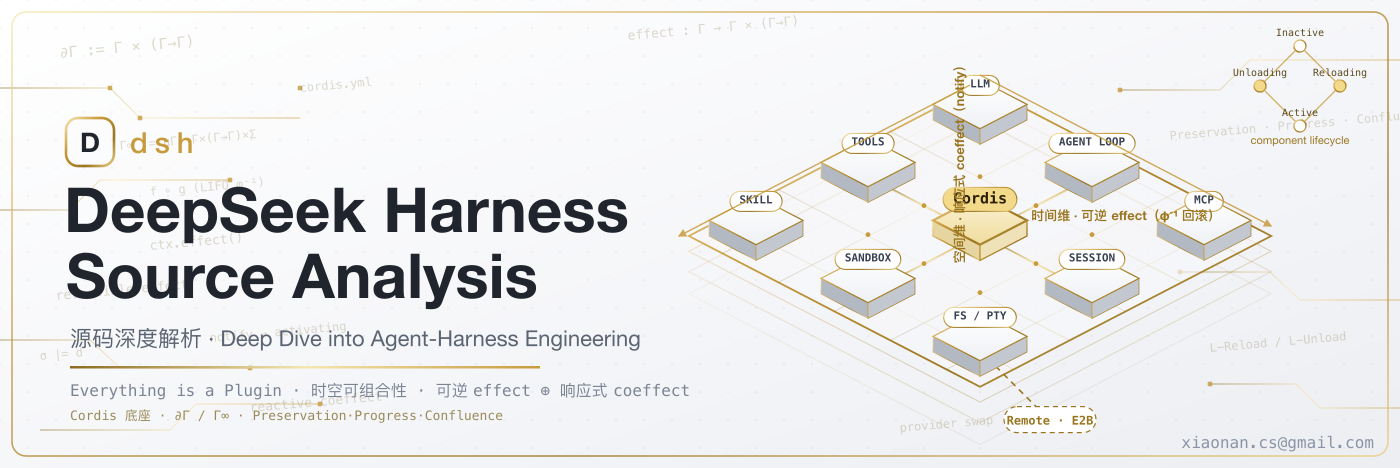
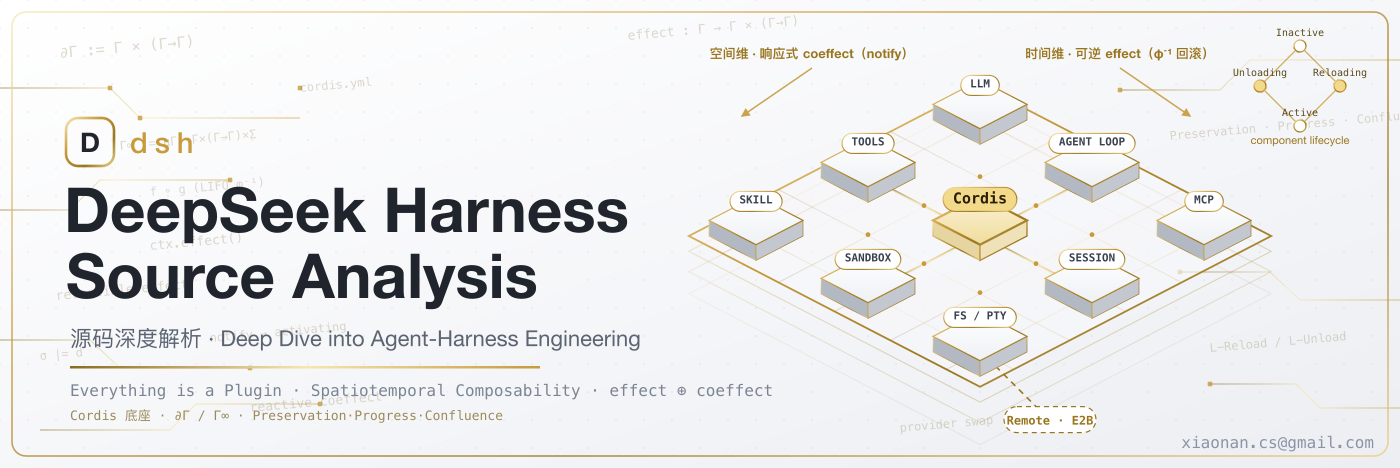
docs: 论文标题统一为英文原名 + 封面轴标签移出板外
- 全库将「时空可组合性」描述改为原文标题 Spatiotemporal Composability
  （含 md H1 标题、README/总纲/全网调研导航、章节正文）
- git mv 两文件为英文名：
  03-Spatiotemporal-Composability.md、
  22-A-Programming-Paradigm-for-Spatiotemporal-Composability.md
  并修正全部入站链接
- 封面 v5：时间维/空间维轴标签移到板外上方留白，短箭头指向对应棱边，
  文字与等距模块图不再互相覆盖；tagline 同步英文化

diff --git a/assets/gen_cover.py b/assets/gen_cover.py
@@ -104,12 +104,13 @@ for cx,cy,lbl,core in mods:
     out.append(f'<text x="{px:.1f}" y="{py+1:.1f}" text-anchor="middle" font-size="{fs}" font-weight="700" fill="{tc}">{lbl}</text>')
 out.append('</g>')
 
-# ---- 时空两维轴（板上方两条金箭头 + 标签）----
-tl=iso(-0.6,-0.6,0); tr=iso(4.6,-0.6,0); ll=iso(-0.6,4.6,0)
-out.append(f'<line x1="{tl[0]:.0f}" y1="{tl[1]-10:.0f}" x2="{tr[0]:.0f}" y2="{tr[1]-10:.0f}" stroke="{GOLD}" stroke-width="1.4" marker-end="url(#ah)" opacity="0.85"/>')
-out.append(f'<text x="{(tl[0]+tr[0])/2:.0f}" y="{tr[1]-16:.0f}" text-anchor="middle" font-size="13" font-weight="700" fill="{DKGOLD}">时间维 · 可逆 effect（φ⁻¹ 回滚）</text>')
-out.append(f'<line x1="{tl[0]-10:.0f}" y1="{tl[1]:.0f}" x2="{ll[0]-10:.0f}" y2="{ll[1]:.0f}" stroke="{GOLD}" stroke-width="1.4" marker-end="url(#ah)" opacity="0.85"/>')
-out.append(f'<text x="{tl[0]-16:.0f}" y="{(tl[1]+ll[1])/2:.0f}" text-anchor="middle" font-size="13" font-weight="700" fill="{DKGOLD}" transform="rotate(-90 {tl[0]-16:.0f} {(tl[1]+ll[1])/2:.0f})">空间维 · 响应式 coeffect（notify）</text>')
+# ---- 时空两维轴（移到板外上方留白，短箭头指向对应棱边，文字与模块完全分离）----
+# 空间维：左上留白，箭头指向板的左上棱
+out.append(f'<text x="812" y="58" text-anchor="middle" font-size="13" font-weight="700" fill="{DKGOLD}">空间维 · 响应式 coeffect（notify）</text>')
+out.append(f'<line x1="812" y1="68" x2="742" y2="116" stroke="{GOLD}" stroke-width="1.5" marker-end="url(#ah)" opacity="0.9"/>')
+# 时间维：右上留白，箭头指向板的右上棱
+out.append(f'<text x="1120" y="58" text-anchor="middle" font-size="13" font-weight="700" fill="{DKGOLD}">时间维 · 可逆 effect（φ⁻¹ 回滚）</text>')
+out.append(f'<line x1="1120" y1="68" x2="1190" y2="116" stroke="{GOLD}" stroke-width="1.5" marker-end="url(#ah)" opacity="0.9"/>')
 
 # ---- 生命周期环（右上角小母题，论文 Fig1/2）----
 lx,ly,r=1300,86,40
@@ -138,7 +139,7 @@ out.append(f'''
     <text x="66" y="298" font-size="62" font-weight="800" fill="{INK}">Source Analysis</text>
     <text x="70" y="346" font-size="22" fill="#5b6472">源码深度解析 · Deep Dive into Agent-Harness Engineering</text>
     <rect x="70" y="366" width="470" height="2.5" fill="url(#wireH)"/>
-    <text x="70" y="396" font-size="16" fill="#7b8493" font-family="ui-monospace,Menlo,monospace">Everything is a Plugin · 时空可组合性 · 可逆 effect ⊕ 响应式 coeffect</text>
+    <text x="70" y="396" font-size="16" fill="#7b8493" font-family="ui-monospace,Menlo,monospace">Everything is a Plugin · Spatiotemporal Composability · effect ⊕ coeffect</text>
     <text x="70" y="420" font-size="13" fill="#9a8a5a" font-family="ui-monospace,Menlo,monospace">Cordis 底座 · ∂Γ / Γ∞ · Preservation·Progress·Confluence</text>
   </g>''')
 out.append(f'<text x="{W-26}" y="{H-20}" text-anchor="end" font-size="16" fill="#8a94a6" font-family="ui-monospace,Menlo,monospace">xiaonan.cs@gmail.com</text>')

diff --git a/Part II Source Analysis/18-互操作与自我修改.md b/Part II Source Analysis/18-互操作与自我修改.md
@@ -1,6 +1,6 @@
 # 第 18 章 · 互操作与自我修改
 
-> 本章讲三件事:dsh 如何**当别人的客户端**(MCP client 挂载外部工具)、如何**兼容别人的扩展协议**(Claude Code / Codex 的 hook 桥),以及最激进的一步——如何让 agent **检视并改写自己正在运行的插件运行时**(extensions / `demo:cordis`)。读完你能回答:一个"一切皆插件"的 harness,把插件系统的钥匙交到模型手里时,它用哪些不变量守住正确性,以及这一步为什么正是第 3 章"时空可组合性"最直接的体现。
+> 本章讲三件事:dsh 如何**当别人的客户端**(MCP client 挂载外部工具)、如何**兼容别人的扩展协议**(Claude Code / Codex 的 hook 桥),以及最激进的一步——如何让 agent **检视并改写自己正在运行的插件运行时**(extensions / `demo:cordis`)。读完你能回答:一个"一切皆插件"的 harness,把插件系统的钥匙交到模型手里时,它用哪些不变量守住正确性,以及这一步为什么正是第 3 章"Spatiotemporal Composability"最直接的体现。
 
 前面若干章把 dsh 拆成一棵 Cordis 插件树:agent loop、工具注册表、会话日志、模型适配器全是可替换插件(Ch05–Ch11)。所谓"插件树",就是把整个 harness 想象成一棵由许多可插拔零件搭起来的树,每个零件既可以单独换掉,也能挂上新的分支。本章处理这棵树的**边界与自反**(自反 = 系统能把自己当成操作对象)——树如何伸到进程之外去消费第三方生态,如何把外部世界的扩展协议翻译进自己的类型化扩展点,以及树如何长出一根指向自己的手指。三条接缝在源码里分属三个包组:`packages/mcp`、`packages/hooks`、`packages/extensions`(`packages/self-modification` 是 AGENTS.md 里对后者的旧称,README 已统一为 extensions)`[verified]`(`CLAUDE.md` 包布局 + `packages/extensions/README.md:1`)。
 
@@ -155,7 +155,7 @@ sequenceDiagram
 
 这套运行状态对外暴露的窗口是四个转发事件:`cordis/request-run`、`cordis/request-run-resolved`、`dynamicCordisRunner/package`、`dynamicCordisRunner/retract`——后两者是一对对称广播,一个宣布"起来了"、一个宣布"停了",无论这个包有没有浏览器半都照发`[verified]`(`cordis-host-runner/README.md:24`, `src/types.ts:367-397`)。注册表是**放在进程内存里的,而且是唯一真相源**:会话日志只记录 define 调用的元数据、从不记录代码本身,所以进程一旦重启,里面就名正言顺地没有任何定义了——这时一张 id 已经失效的卡片会老实说明"我跑不了"、而不是假装还能运行`[verified]`(`cordis-host-runner/README.md:26-28`)。
 
-## 五、与 Ch03 的呼应:自我修改是时空可组合性最直接的体现
+## 五、与 Ch03 的呼应:自我修改是Spatiotemporal Composability最直接的体现
 
 第 3 章讲 Cordis 的两个可组合性:**时间可组合性**——组件卸载时能完全回滚它造成的副作用(Revertible Effects 可逆副作用,`ctx.effect()`/`ctx.on()` 每次都返回一个 disposer,即"撤销句柄",调它就能把这次操作原样撤掉);**空间可组合性**——组件之间的依赖用响应式方式声明(Reactive Coeffects 响应式协变输入,当 ctx 里出现了匹配 spec 的东西时,自动通知组件)`[verified]`(《全网调研》B 节,已核实论文摘要)。可以粗略地记成:时间维管"退得干净",空间维管"接得自动"。extensions 把这两条推到很尽:模型 mount 的临时插件同样遵循"registrations are effects"(注册即副作用)的规则,`cordis_unmount` 必须一直 await 到工具/监听器/service/timer/effect 全部**静默**下来才返回——这正是可逆 effect 在运行时被模型亲手触发的样子`[verified]`(`2026-07-08-self-referential-cordis-toolset.md:26`)。
 
@@ -179,7 +179,7 @@ stateDiagram-v2
 
 </div>
 
-> 图注:临时插件的状态机就是 Cordis 组件演算的一个实例——Pending↔Running 由响应式 coeffect 驱动,Running→Quiescent 由可逆 effect 保证完全回滚。它证明自我修改没有绕开时空可组合性,而是它的直接应用。
+> 图注:临时插件的状态机就是 Cordis 组件演算的一个实例——Pending↔Running 由响应式 coeffect 驱动,Running→Quiescent 由可逆 effect 保证完全回滚。它证明自我修改没有绕开Spatiotemporal Composability,而是它的直接应用。
 
 ## 六、易错点与门禁
 
@@ -195,7 +195,7 @@ stateDiagram-v2
 > **ratify-note · "让 agent 改自己运行时"相对竞品是差异化能力还是过度设计**
 > - 候选解释:A 这是 dsh 相对 Claude Code / Codex 的差异化能力——把"一切皆插件"贯彻到模型可自反修改运行时;B 这是猎奇的过度设计,实用价值低于其复杂度;C 沿用现状(只提供固定工具集,不开放自反)。
 > - 各自利弊:A 优——模型能在会话中即时组合它发明的能力,且 mount 物与框架插件同演算、可检视可回滚;缺——沙箱非安全边界,信任等级=bash,只能是 opt-in 开发工具。B 优——避免 host/client 双半、request-run 往返、生成 API 目录等一大坨机制;缺——放弃了"自反 agent"这一研究价值,且这些机制多数复用既有 fiber/effect 语义,增量并非凭空。C 优——最小面;缺——与"没有特权内核"的架构命题不自洽。
-> - 选定 & 理由:倾向 A,但**弱化措辞**:社区(《全网调研》F/D 节)对 self-modification 与 Cordis 的评价多为 `[claimed]`/`[inferred]`,"是否更优"无一手定论;源码能证明的是**机制存在且与时空可组合性同源**,不能证明它在真实任务上净收益为正。
+> - 选定 & 理由:倾向 A,但**弱化措辞**:社区(《全网调研》F/D 节)对 self-modification 与 Cordis 的评价多为 `[claimed]`/`[inferred]`,"是否更优"无一手定论;源码能证明的是**机制存在且与Spatiotemporal Composability同源**,不能证明它在真实任务上净收益为正。
 > - 证据等级：机制 `[verified]`（`packages/extensions/README.md`、`cordis-host-runner/README.md`）；"差异化价值"判断 `[inferred]`（《全网调研-社区认知地图》D/F 节）。
 > - 残余风险 / pre-mortem:若半年后此判断被证伪,最可能因——(1)开放自反运行时被证明在生产中风险 > 收益(误 mount 短路 agent、跨会话污染同进程其他 session),导致它长期停留在 demo/opt-in、从不进默认;(2)结构化"注册单个工具"的 sugar 反而成为模型更常用的路径,使"mount 整个插件"的通用性显得过重。Agent Note 已把前者列为 Consequences、把后者列为可后加的 alternatives`[verified]`(`2026-07-08-...toolset.md:62-84`)。
 
@@ -203,7 +203,7 @@ stateDiagram-v2
 
 ## 小结与衔接
 
-本章的三条接缝——MCP client(出向消费)、hooks 桥(入向兼容)、extensions(自反)——共同印证了总纲的架构命题:即便是"接入外部生态"和"改写自身运行时"这样看似需要特权的能力,在 dsh 里也只是普通 Cordis 插件,落在同一个 `ctx.tools` 与同一套扩展点上。而 extensions 之所以能把插件系统的钥匙安全地交给模型,根因在第 3 章的时空可组合性:mount 物与框架插件共享可逆 effect 与响应式 coeffect,`cordis_unmount` 的静默契约就是可逆性在运行时被模型触发的直接体现。至此 Part II 的源码剖析收束——从回合流、会话、提示词、工具、模型、能力接缝,一路走到远程与自我修改。接下来 Part III 将跳出源码:Ch19 把 dsh 放回竞品生态中定位,Ch20 从元层面看这份"由 agent 大规模并行编写"的代码库背后的工程纪律与公司理念。
+本章的三条接缝——MCP client(出向消费)、hooks 桥(入向兼容)、extensions(自反)——共同印证了总纲的架构命题:即便是"接入外部生态"和"改写自身运行时"这样看似需要特权的能力,在 dsh 里也只是普通 Cordis 插件,落在同一个 `ctx.tools` 与同一套扩展点上。而 extensions 之所以能把插件系统的钥匙安全地交给模型,根因在第 3 章的Spatiotemporal Composability:mount 物与框架插件共享可逆 effect 与响应式 coeffect,`cordis_unmount` 的静默契约就是可逆性在运行时被模型触发的直接体现。至此 Part II 的源码剖析收束——从回合流、会话、提示词、工具、模型、能力接缝,一路走到远程与自我修改。接下来 Part III 将跳出源码:Ch19 把 dsh 放回竞品生态中定位,Ch20 从元层面看这份"由 agent 大规模并行编写"的代码库背后的工程纪律与公司理念。
 
 ## 源码索引
 
@@ -221,4 +221,4 @@ stateDiagram-v2
 - `packages/mcp/mcp-client/README.md:5-115` — 命名、config、断线重连预算、Model Experience、deferred
 - `packages/mcp/mcp-client/src/tools.ts:86-165` — 公开名/哈希后缀/命名冲突回滚
 - `CLAUDE.md`(仓库根) — 包布局、`demo:cordis` 命令、"registrations are effects"、"model-visible ⟺ logged" 铁律
-- 《全网调研-社区认知地图》B/D/F 节 — 时空可组合性论文映射、争议矩阵、盲区(均标注证据等级)
+- 《全网调研-社区认知地图》B/D/F 节 — Spatiotemporal Composability论文映射、争议矩阵、盲区(均标注证据等级)

diff --git a/Part I Principles and Usage/02-一切皆插件与Cordis.md b/Part I Principles and Usage/02-一切皆插件与Cordis.md
@@ -18,7 +18,7 @@ dsh 的架构自白只有一句话，写在根 `AGENTS.md` 开头和 `docs/archi
 2. **生命周期与副作用回滚**：agent 运行时要动态挂载/卸载能力（子 agent、临时工具、热重载的插件）。一个插件在运行期注册了监听器、定时器、服务、文件监视，卸载时若不能干净地全部撤销，就会泄漏、串扰、状态残留。打个比方：一个访客进屋开了灯、开了空调、还接了根网线，走的时候如果这些没人负责一一关掉，屋子就会越用越乱。
 3. **依赖顺序**：插件 A 需要 `ctx.tools` 就绪才能注册工具。手工编排 boot 顺序（谁先启动、谁后启动）既脆弱又不可组合——加一个新插件就得重新想一遍它该排在哪。
 
-Cordis 对这三点分别给出了"上下文即服务仓库""注册即可回滚 effect""按服务依赖声明 inject"的答案。这也是《社区认知地图》里被反复标记为"本项目最有研究味的部分"的那套时空可组合性范式（详细形式化留到第 03 章）`[claimed]`（`全网调研-社区认知地图.md` B 节）。
+Cordis 对这三点分别给出了"上下文即服务仓库""注册即可回滚 effect""按服务依赖声明 inject"的答案。这也是《社区认知地图》里被反复标记为"本项目最有研究味的部分"的那套Spatiotemporal Composability范式（详细形式化留到第 03 章）`[claimed]`（`全网调研-社区认知地图.md` B 节）。
 
 ## 三、解决思路与方案
 
@@ -103,7 +103,7 @@ sequenceDiagram
 
 </div>
 
-> **↔ 论文对应**：这里的 "Registrations are effects" 与 disposer 反序卸载，在《时空可组合性》论文里被形式化为**可逆 effect**——每次 context 变换都携带显式逆元，由 effect context $\partial\Gamma=(\gamma,\varphi)$ 里的 accumulator $\varphi$ 追踪（track），卸载即一次 recover（见 [Part IV 论文全解](../Part%20IV%20Foundational%20Paper/22-时空可组合性论文全解.md) §3.1，Def.2/3/6）。disposer 的"逆序（LIFO）运行"正对应论文 Thm.16：组件内一串 effect 按 LIFO 反转、无需任何前提即精确恢复 `[verified]`。
+> **↔ 论文对应**：这里的 "Registrations are effects" 与 disposer 反序卸载，在《Spatiotemporal Composability》论文里被形式化为**可逆 effect**——每次 context 变换都携带显式逆元，由 effect context $\partial\Gamma=(\gamma,\varphi)$ 里的 accumulator $\varphi$ 追踪（track），卸载即一次 recover（见 [Part IV 论文全解](../Part%20IV%20Foundational%20Paper/22-A-Programming-Paradigm-for-Spatiotemporal-Composability.md) §3.1，Def.2/3/6）。disposer 的"逆序（LIFO）运行"正对应论文 Thm.16：组件内一串 effect 按 LIFO 反转、无需任何前提即精确恢复 `[verified]`。
 
 ### Service 子类与 Context 树
 
@@ -189,14 +189,14 @@ flowchart LR
 
 一句话记：**Cordis 回答"插件怎么装卸组合"，dsh 回答"agent 怎么跑"**；前者是通用底盘，后者是跑在底盘上的具体产品。
 
-**论文—框架—产品三角。** 把视野再拉远一层，这套东西其实站在三块基石上，且三块基石彼此指认：支撑"时空可组合性"范式的那篇论文（北大 × DeepSeek 合作，Tianyi Cui 为共同作者）给出理论 `[claimed]`；Cordis 是这套范式的一个通用**实现**；dsh 则是把 Cordis 用于 agent 场景的一个具体**应用**。一个耐人寻味的旁证是：Cordis 的官方文档甚至托管在 `deepseek-harness.github.io` 域名下 `[claimed]`（`全网调研-社区认知地图.md` B 节）——这条线索让"论文作者、框架作者、产品团队三者高度重叠"看起来很可能成立，但确切的人员与组织血缘仍难从公开信息坐实，故整体记为 `[inferred]`。
+**论文—框架—产品三角。** 把视野再拉远一层，这套东西其实站在三块基石上，且三块基石彼此指认：支撑"Spatiotemporal Composability"范式的那篇论文（北大 × DeepSeek 合作，Tianyi Cui 为共同作者）给出理论 `[claimed]`；Cordis 是这套范式的一个通用**实现**；dsh 则是把 Cordis 用于 agent 场景的一个具体**应用**。一个耐人寻味的旁证是：Cordis 的官方文档甚至托管在 `deepseek-harness.github.io` 域名下 `[claimed]`（`全网调研-社区认知地图.md` B 节）——这条线索让"论文作者、框架作者、产品团队三者高度重叠"看起来很可能成立，但确切的人员与组织血缘仍难从公开信息坐实，故整体记为 `[inferred]`。
 
 <div style="background: #ffffff !important; background-color: #ffffff !important; padding: 16px; border-radius: 8px; margin: 16px 0;" bgcolor="#ffffff">
 
 ```mermaid
 %%{init: {'theme':'neutral'}}%%
 flowchart TD
-  Paper["论文: 时空可组合性范式<br/>(北大 × DeepSeek, Tianyi Cui 共同作者) [claimed]"]
+  Paper["论文: Spatiotemporal Composability范式<br/>(北大 × DeepSeek, Tianyi Cui 共同作者) [claimed]"]
   Koishi["Koishi: 聊天机器人框架生态"]
   Cordis["Cordis: 通用 TS 微内核插件框架<br/>(@shigma 主导, ~537/550 commits) [claimed]"]
   DSH["DeepSeek Harness (dsh): agent 产品"]
@@ -212,7 +212,7 @@ flowchart TD
 
 </div>
 
-关于三者关系与血缘的更细追溯，可循以下交叉引用：横向的框架对比见 [Part III 第 21 章《参考底座 Cordis 深度对比》](../Part%20III%20Comparative%20Analysis/21-参考底座Cordis深度对比.md)；对 Cordis 本身的系统调研（尤其 Koishi / Cordis / dsh 三者关系）见 [Part V《Cordis 深度调研》第 29 章](../Part%20V%20Cordis%20Deep%20Dive/29-Cordis-Koishi-dsh关系.md)；支撑范式的论文全解见 [Part IV《时空可组合性论文全解》](../Part%20IV%20Foundational%20Paper/22-时空可组合性论文全解.md)。
+关于三者关系与血缘的更细追溯，可循以下交叉引用：横向的框架对比见 [Part III 第 21 章《参考底座 Cordis 深度对比》](../Part%20III%20Comparative%20Analysis/21-参考底座Cordis深度对比.md)；对 Cordis 本身的系统调研（尤其 Koishi / Cordis / dsh 三者关系）见 [Part V《Cordis 深度调研》第 29 章](../Part%20V%20Cordis%20Deep%20Dive/29-Cordis-Koishi-dsh关系.md)；支撑范式的论文全解见 [Part IV《Spatiotemporal Composability论文全解》](../Part%20IV%20Foundational%20Paper/22-A-Programming-Paradigm-for-Spatiotemporal-Composability.md)。
 
 ## 六、竞品/横向对比
 
@@ -236,7 +236,7 @@ flowchart TD
 
 本章确立了 dsh 的地基：**Cordis 提供"上下文即服务仓库 + 注册即可回滚 effect + 按 inject 声明依赖"三件套，使"一切皆插件、无特权内核"从口号变成可运行的机械事实**；dsh 又以 vendored + pin + rescope 的方式完全拥有这一层，用 hygiene 门禁把"只此一份"锁死。理解了 `ctx` 树、effect/disposer 契约、四种派发模式，就握住了后续所有章节的公共语汇。
 
-下一章（第 03 章）深入 Cordis 背后的"时空可组合性"范式与那篇形式化论文——为何 effect 是"时间可组合"（卸载能完全回滚副作用）、coeffect 是"空间可组合"（响应式声明依赖），把本章的机械事实提升到范式层面。第 04 章则接着讲这棵插件树在启动时如何由 profile / bundle / `cordis.patch.yml` 有序组装出来。
+下一章（第 03 章）深入 Cordis 背后的"Spatiotemporal Composability"范式与那篇形式化论文——为何 effect 是"时间可组合"（卸载能完全回滚副作用）、coeffect 是"空间可组合"（响应式声明依赖），把本章的机械事实提升到范式层面。第 04 章则接着讲这棵插件树在启动时如何由 profile / bundle / `cordis.patch.yml` 有序组装出来。
 
 ## 源码索引
 

diff --git a/全网调研-社区认知地图.md b/全网调研-社区认知地图.md
@@ -17,14 +17,14 @@
 | x-cmd / xlings 打包页 | 社区 | `x install dsh`；称首日 ~13k stars | `[claimed]`（star 数未精确核实） |
 | 暗涌/ChinaTalk 梁文锋访谈、开源周 open-infra-index | 一手/官方 | DeepSeek 公司理念（见 C 节） | `[verified]`（原文可查） |
 
-## B. Cordis / 时空可组合性 / Koishi 血缘（本研究最强、最被低估的发现）
+## B. Cordis / Spatiotemporal Composability / Koishi 血缘（本研究最强、最被低估的发现）
 
 这一节是全文最值得慢读的部分。它回答一个容易被忽略的问题：dsh 底下那套插件内核，到底从哪来？
 
 - **Cordis 不是 DeepSeek 自创**：它本是一个已有的 TypeScript 元框架（出自 cordiverse 组织，作者 @shigma）。所谓元框架，就是"用来搭框架的框架"——它自己不做具体业务，只提供组织插件、注入依赖的底座。dsh 采用它的方式很彻底：不是当普通依赖装，而是把源码整个搬进仓库（业界叫 **vendored 源码**），锁定在 `4.0.0-rc.7` 版本，并改名为 `@deepseek-ai/cordis`；同时维护 cordis/cosmokit/schemastery 三个 fork，还把补丁回合并给上游。一句话概括：**一个顶级 AI 实验室，把它的 agent harness 建在了一个社区聊天机器人框架的依赖注入（DI）/插件内核之上。** `[verified]`（vendor/README.md + Cordis 仓库）
 - **血缘**：@shigma 同时也是知名聊天机器人框架 **Koishi** 的作者；Cordis 正是从 Koishi 里抽象出来的通用内核——同一个作者，加上插件市场、HMR（热模块替换，即改代码不重启就生效）、DI 这套共同的架构基因。"Koishi 建立在 Cordis 上"这一点置信度很高，只是本次没能拿到逐字的一手原话 → `[inferred]`。
 - **Shigma 本人就是 dsh 仓库的直接提交者** `[verified]`：README 里那条 paper 链接，正是 Shigma 亲手提交的（commit `0ae8f27b93`，`docs: add link to preview paper`，作者 `shigma10826@gmail.com`）。这条把"Cordis↔dsh↔Shigma"的三角关系从推断变成了实锤——Cordis 的作者是直接下场参与 dsh 开发的，而不只是被人引用。
-- **关于那篇"论文"——它确实是 DeepSeek（×北大）的论文，且 dsh 的头号作者是共同作者** `[verified]`（更正）：早前仅凭 GitHub 仓库首页"未见 DeepSeek 署名"而判定"不是 DeepSeek 的论文"是**错的**——论文 PDF 标题页明确署名 **Yifan Shi¹²、Wei Zhang¹、Tianyi Cui²**，单位 **¹Peking University、²DeepSeek-AI**，页眉是 deepseek logo。也就是说《A Programming Paradigm for Spatiotemporal Composability》是**北大 × DeepSeek-AI 的联合论文**，而 **Tianyi Cui 正是 dsh 的头号提交者**（git 已核实 5,235 commits）。它形式化的是 Cordis 的插件范式（不直接涉及 DeepSeek 的**模型**），但它是 DeepSeek 的研究产出，且直接作为 dsh 的理论底座——论文结论更把 "self-evolving agent harnesses" 列为该范式的未来验证方向，而 dsh 恰是这样一个 harness（详见 [Part IV 论文研究](Part%20IV%20Foundational%20Paper/22-时空可组合性论文全解.md)）。此外，README 那条 paper 链接由 **Shigma** 提交，第一作者 Yifan Shi **可能**即 Cordis/Koishi 作者 Shigma（`[inferred]`，未逐一实证）。同一提交还删掉了仓库原先内置的 `docs/cordis-paper.pdf`（1.24MB → 0）改为外链预印本。
+- **关于那篇"论文"——它确实是 DeepSeek（×北大）的论文，且 dsh 的头号作者是共同作者** `[verified]`（更正）：早前仅凭 GitHub 仓库首页"未见 DeepSeek 署名"而判定"不是 DeepSeek 的论文"是**错的**——论文 PDF 标题页明确署名 **Yifan Shi¹²、Wei Zhang¹、Tianyi Cui²**，单位 **¹Peking University、²DeepSeek-AI**，页眉是 deepseek logo。也就是说《A Programming Paradigm for Spatiotemporal Composability》是**北大 × DeepSeek-AI 的联合论文**，而 **Tianyi Cui 正是 dsh 的头号提交者**（git 已核实 5,235 commits）。它形式化的是 Cordis 的插件范式（不直接涉及 DeepSeek 的**模型**），但它是 DeepSeek 的研究产出，且直接作为 dsh 的理论底座——论文结论更把 "self-evolving agent harnesses" 列为该范式的未来验证方向，而 dsh 恰是这样一个 harness（详见 [Part IV 论文研究](Part%20IV%20Foundational%20Paper/22-A-Programming-Paradigm-for-Spatiotemporal-Composability.md)）。此外，README 那条 paper 链接由 **Shigma** 提交，第一作者 Yifan Shi **可能**即 Cordis/Koishi 作者 Shigma（`[inferred]`，未逐一实证）。同一提交还删掉了仓库原先内置的 `docs/cordis-paper.pdf`（1.24MB → 0）改为外链预印本。
 - **论文《A Programming Paradigm for Spatiotemporal Composability》**（摘要已直接核实 `[verified]`）讲了什么：
   - **时间可组合性**：组件卸载时能"完全回滚它造成的副作用"——即 Revertible Effects（可撤销的副作用，每个上下文变换都自带一个可追踪的逆操作）。打个比方：像给每次改动都配了一颗后悔药，拔掉插件就能干净地退回原状。
   - **空间可组合性**：用响应式的方式声明组件之间的依赖——即 Reactive Coeffects（上下文一旦匹配某个 spec，就自动通知相关组件）。
@@ -69,7 +69,7 @@
 - **能力接缝的三个角色**是怎么做到"换一个 provider 就能改变整个产品"的——所谓能力接缝，可以类比成插座标准：只要接口一致，换个灯泡不用重新布线。这块社区几乎没展开，放到 Ch11–14 重点讲。
 - **事件溯源里"model-visible⟺logged"这条不变量**（凡是模型能看到的，必然都被记进日志，反之亦然）在工程上意味着什么——Ch07 重点。
 - **面向 agent 的工程纪律**（Agent Notes 的生命周期、各种门禁体系）——这部分被"代码是 agent 写的"这个猎奇点盖住了，Ch20 系统补上。
-- **能自我修改的运行时**（extensions/demo:cordis）和前面讲的时空可组合性是什么关系——Ch18 结合 Ch03 一起看。
+- **能自我修改的运行时**（extensions/demo:cordis）和前面讲的Spatiotemporal Composability是什么关系——Ch18 结合 Ch03 一起看。
 
 ## F′. 生态与泄漏复盘（据社区第三方反推报告，`[claimed]`）
 

diff --git a/Part V Cordis Deep Dive/29-Cordis-Koishi-dsh关系.md b/Part V Cordis Deep Dive/29-Cordis-Koishi-dsh关系.md
@@ -9,7 +9,7 @@
 先把最容易被说岔的部分定死。三者是一条**单向的抽象—采用链**,不是平行的三个项目:
 
 - **Koishi** 是起点——一个成熟的跨平台聊天机器人框架,带插件市场、HMR(热模块替换,即改代码不重启就生效)`[verified]`(全网调研已核实 koishi 官方 README)。它早年把「插件、服务、上下文」这套依赖注入机制打磨成熟。
-- **Cordis** 是中间的抽象产物——把 Koishi 里与「聊天」无关的那层通用内核剥离出来,成为一个领域中立的微内核框架,自述「A Meta-Framework of Spatiotemporal Composability」(时空可组合性元框架)`[verified]`(`repo/cordis/README.md:5`)。所谓元框架,就是「用来搭框架的框架」:它自己不做具体业务,只提供组织插件、注入依赖、干净卸载的底座。
+- **Cordis** 是中间的抽象产物——把 Koishi 里与「聊天」无关的那层通用内核剥离出来,成为一个领域中立的微内核框架,自述「A Meta-Framework of Spatiotemporal Composability」(Spatiotemporal Composability元框架)`[verified]`(`repo/cordis/README.md:5`)。所谓元框架,就是「用来搭框架的框架」:它自己不做具体业务,只提供组织插件、注入依赖、干净卸载的底座。
 - **DeepSeek Harness** 是终点的采用者——它没把 Cordis 当普通 npm 依赖装,而是把整份源码搬进 `vendor/`、锁在 `4.0.0-rc.7`、rescope 成 `@deepseek-ai/cordis`,再在其上特化出一个跑编码 agent 的外壳 `[verified]`(`vendor/README.md` 清单表)。
 
 「Cordis 抽象自 Koishi」这一步,两家 README 并未逐字互相点名,只能记为 `[inferred]`;但有一条**一手实锤**把它顶得很稳:论文 §4.3 直接写「**Koishi 的 plugin 就是本文说的 component**」,且说明 Koishi 建立在 Cordis 之上(Koishi 用 v3,论文形式化对应 v4)`[verified]`(第 23 章摘录 `:185`)。也就是说,「Koishi—Cordis 同源、Cordis 是更底层的那一层」这件事,连论文自己都承认了。
@@ -20,7 +20,7 @@
 %%{init: {'theme':'neutral'}}%%
 flowchart LR
   K["Koishi<br/>聊天机器人框架<br/>插件市场 · HMR · DI"]
-  C["Cordis<br/>通用微内核 元框架<br/>时空可组合性"]
+  C["Cordis<br/>通用微内核 元框架<br/>Spatiotemporal Composability"]
   D["DeepSeek Harness<br/>编码 agent 外壳<br/>一切皆插件"]
   K -. "剥离通用内核 [inferred]<br/>论文 §4.3 侧证" .-> C
   C == "整份 vendored + rescope [verified]" ==> D
@@ -132,7 +132,7 @@ flowchart TB
 最后一条线,是那篇论文如何把三者钉成一个闭环三角。三个顶点各司其职:
 
 - **论文《A Programming Paradigm for Spatiotemporal Composability》**是**形式化的范式**——它把「时间可组合性(可逆 effect,任何加载都能干净卸载)」与「空间可组合性(响应式 coeffect,依赖变化自动协调)」形式化,由北大×DeepSeek-AI 三人合著 `[verified]`(第 23 章 `:13`)。它形式化的对象正是 Cordis 的插件范式,§4.3 明说「Koishi 的 plugin 即本文的 component」,并把 Koishi/Cordis 作为存在性验证案例(§4.3、§5)`[verified]`(第 23 章 `:185`)。
-- **Cordis 是范式的实现**——一个真跑起来的时空可组合性内核,自述就叫「A Meta-Framework of Spatiotemporal Composability」,与论文标题同一措辞 `[verified]`(`repo/cordis/README.md:5`)。
+- **Cordis 是范式的实现**——一个真跑起来的Spatiotemporal Composability内核,自述就叫「A Meta-Framework of Spatiotemporal Composability」,与论文标题同一措辞 `[verified]`(`repo/cordis/README.md:5`)。
 - **dsh 是范式的应用**——论文 §8 明确把「**自演化 agent harness**」列为该范式的下一个验证方向(让 AI agent 在少人监督下连续生成/替换自身组件),而 dsh 恰是这样一个 harness,其 self-modification 能力让 agent 挂载/卸载自己的插件 `[verified]`(第 23 章 `:239`;dsh `packages/self-modification`)。
 
 三个顶点还共享同一套**文档与仓储基础设施**,这是最硬的一手佐证:Cordis 自己的 README 把 **Paper 指向 `github.com/cordiverse/paper`**(与 Cordis 同属 cordiverse 组织)、把 **Documentation 指向 `deepseek-harness.github.io`** `[verified]`(`repo/cordis/README.md:9-10`、`repo/cordis/packages/core/README.md:9-10`)。也就是说,Cordis 的文档就托管在 DeepSeek Harness 的站点上——底座与产品共用一个 github.io,这本身就是三者一体的证据。
@@ -142,7 +142,7 @@ flowchart TB
 ```mermaid
 %%{init: {'theme':'neutral'}}%%
 flowchart TB
-  PAPER["论文<br/>时空可组合性范式<br/>形式化 what"]
+  PAPER["论文<br/>Spatiotemporal Composability范式<br/>形式化 what"]
   CORDIS["Cordis<br/>范式的实现<br/>how"]
   DSH["dsh<br/>范式的应用<br/>self-evolving harness"]
   PAPER -- "形式化其插件模型<br/>§4.3 Koishi plugin = component" --> CORDIS

diff --git a/Part II Source Analysis/05-微内核与事件分类法.md b/Part II Source Analysis/05-微内核与事件分类法.md
@@ -63,7 +63,7 @@ flowchart TB
 > **ratify-note · 为何用 Cordis 事件而非自建中间件栈 / 显式状态机**
 > - 候选解释：A 用 Cordis 原生事件系统（现方案）；B 自建 koa-compose 式中间件栈；C 显式"阶段状态机"，插件往里插相位。
 > - 各自利弊：B/C 都要**重新实现** dispatch、disposal、reload 三套语义，而这正是 Cordis effect 系统已免费提供的——listener 作为 Cordis effect 天然获得 HMR 与卸载回滚（Agent Note "Alternatives considered" 节 `microkernel-event-taxonomy.md:24` `[verified]`）。A 的代价是 waterfall 的 `next()` 语义反直觉、需要专门教学与组合测试。
-> - 选定 & 理由：选 A。第一性看，harness 已把整个产品建在 Cordis 的"时空可组合性"底座上（总纲范式命题），插件的注册即副作用、卸载即回滚是既有能力；再造一套中间件栈等于在框架之上重复造框架，还得自己保证卸载正确性。
+> - 选定 & 理由：选 A。第一性看，harness 已把整个产品建在 Cordis 的"Spatiotemporal Composability"底座上（总纲范式命题），插件的注册即副作用、卸载即回滚是既有能力；再造一套中间件栈等于在框架之上重复造框架，还得自己保证卸载正确性。
 > - 证据等级：[verified]（ADR alternatives 直证）+ [inferred]（"复用底座优于重造"属合理推断，动机层非直证）。
 > - 残余风险 / pre-mortem：若半年后被证伪，最可能因 waterfall 语义的心智成本在大规模插件生态里累积成事故源，届时可能需要在 Cordis 事件之上再包一层更"傻瓜"的策略 API。
 
@@ -104,7 +104,7 @@ flowchart TB
 
 > 图注：waterfall 的两种合法走向——短路（policy 拿走决策）与委托（层层包装后回传）。它证明"忘记 `next()`"在这套模型里不是崩溃而是**静默改变语义**，所以必须靠教学 + 组合测试兜底（Agent Note Consequences 节 `microkernel-event-taxonomy.md:30`）。
 
-> **↔ 论文对应**：监听器注册即 Cordis effect（`ctx.on` 返回 disposer、卸载时回滚），在《时空可组合性》论文里属于**可逆 effect**（见 [Part IV 论文全解](../Part%20IV%20Foundational%20Paper/22-时空可组合性论文全解.md) §3.1，Def.12、Thm.16）`[verified]`；而 waterfall 的环绕（around-middleware）语义、以及"扩展点"作为多插件汇聚的**组合点**，可类比论文把 context 视作组件交汇处、用 effect 组合子 $\diamond$ 顺序拼接各组件贡献的定位 `[inferred]`。
+> **↔ 论文对应**：监听器注册即 Cordis effect（`ctx.on` 返回 disposer、卸载时回滚），在《Spatiotemporal Composability》论文里属于**可逆 effect**（见 [Part IV 论文全解](../Part%20IV%20Foundational%20Paper/22-A-Programming-Paradigm-for-Spatiotemporal-Composability.md) §3.1，Def.12、Thm.16）`[verified]`；而 waterfall 的环绕（around-middleware）语义、以及"扩展点"作为多插件汇聚的**组合点**，可类比论文把 context 视作组件交汇处、用 effect 组合子 $\diamond$ 顺序拼接各组件贡献的定位 `[inferred]`。
 
 ### 4.3 事件声明住在契约包，与具体 loop 解耦
 
@@ -200,7 +200,7 @@ sequenceDiagram
 > - 证据等级：[verified]（dsh 侧机制与桥接确在源码）；竞品 hook 采用外部协议属 [claimed]（社区认知，见《全网调研》E 节 dsh 与 Claude Code/Codex 同类）。
 > - 残余风险：若被证伪，最可能因跨语言/沙箱强隔离的 hook 需求上升，进程内 native hook 反成短板。
 
-社区侧的普遍印象是 dsh 与 Claude Code / Codex CLI / Pi 同类（都是 terminal/web agent harness，即跑在终端或网页里、负责驱动 AI agent 的"外壳程序"，《全网调研》E1 `[claimed]`），其工具调用的严格 JSON schema 被赞（同 E2 `[claimed]`）。但"扩展点=类型化事件+四模式"这一层，社区几乎没展开——它更像是 Cordis 血缘（论文《时空可组合性》）在 harness 上的直接投影，而非 harness 自身发明。
+社区侧的普遍印象是 dsh 与 Claude Code / Codex CLI / Pi 同类（都是 terminal/web agent harness，即跑在终端或网页里、负责驱动 AI agent 的"外壳程序"，《全网调研》E1 `[claimed]`），其工具调用的严格 JSON schema 被赞（同 E2 `[claimed]`）。但"扩展点=类型化事件+四模式"这一层，社区几乎没展开——它更像是 Cordis 血缘（论文《Spatiotemporal Composability》）在 harness 上的直接投影，而非 harness 自身发明。
 
 ## 七、仍存在的问题与局限
 

diff --git a/总纲-DeepSeek-Harness技术主线分析.md b/总纲-DeepSeek-Harness技术主线分析.md
@@ -16,13 +16,13 @@
 这条主线可拆成四个彼此支撑的命题：
 
 1. **架构命题**：没有特权内核——也就是没有哪一块功能是"特殊的、不能碰的"。连模型适配器（对接大模型的那层）、工具注册表、会话日志、agent loop（agent 的主循环）本身，都是 Cordis 插件，全部可从配置替换。（Cordis 是这套系统底层用的插件框架，可以先理解为"专门负责让一切都变成可插拔模块的地基"；阶段2 源码可证。）
-2. **范式命题**：其可替换性建立在 Cordis 的"时空可组合性"之上——组件卸载能完全回滚副作用（时间/可逆 effect，即"做过的动作都能撤销"），依赖以响应式方式声明（空间/响应式 coeffect，即"我需要什么由我声明、框架自动喂给我，谁先谁后不用手工排"）。这是有形式化论文支撑的范式，而非临时拼凑的插件系统——支撑它的《A Programming Paradigm for Spatiotemporal Composability》是**北大 × DeepSeek-AI 的联合论文**，共同作者之一 Tianyi Cui 正是 dsh 的头号提交者（详见 [Part IV 论文研究](Part%20IV%20Foundational%20Paper/22-时空可组合性论文全解.md)）。这一点为什么重要：它意味着"可替换"不是靠约定或自觉维持，而是有底层机制兜底，插件装了又卸也不会留下脏东西。
+2. **范式命题**：其可替换性建立在 Cordis 的"Spatiotemporal Composability"之上——组件卸载能完全回滚副作用（时间/可逆 effect，即"做过的动作都能撤销"），依赖以响应式方式声明（空间/响应式 coeffect，即"我需要什么由我声明、框架自动喂给我，谁先谁后不用手工排"）。这是有形式化论文支撑的范式，而非临时拼凑的插件系统——支撑它的《A Programming Paradigm for Spatiotemporal Composability》是**北大 × DeepSeek-AI 的联合论文**，共同作者之一 Tianyi Cui 正是 dsh 的头号提交者（详见 [Part IV 论文研究](Part%20IV%20Foundational%20Paper/22-A-Programming-Paradigm-for-Spatiotemporal-Composability.md)）。这一点为什么重要：它意味着"可替换"不是靠约定或自觉维持，而是有底层机制兜底，插件装了又卸也不会留下脏东西。
 3. **过程命题**：这是一个**主要由 coding agent 编写**的代码库——不是推断，而是仓库自述（`quality-gates.md:11`："This codebase is developed primarily by coding agents"），2 个月 12,293 commits 佐证。正因为主力"程序员"是 AI，它才格外需要一套能约束 AI、也能让 AI 之间协作的规矩，于是制度化了一整套面向 agent 的工程纪律：Agent Notes（505 篇已实现决策记录，相当于给后来者留的"当初为什么这么决定"的备忘）、postmortem（事故复盘）、100% 单文件覆盖、双语门禁、原生 stacked-PR（把一串互相依赖的改动拆成叠放的小 PR 依次评审、合并）。
 4. **理念命题**：以上三者都能回溯到 DeepSeek 的公司理念——原创而非模仿、少即是多的工程审美、开源作为声誉/人才/标准战略、扁平且好奇心驱动。也就是说，技术上的每一处取舍，背后都能找到一条更上层的价值观在支撑。
 
 ## 三个 Part 的组织逻辑
 
-- **Part I 理念与使用**（Ch01–04）：先立"为什么这样"——项目定位、一切皆插件、时空可组合性范式，以及 profile/bundle 组装（可以理解为"预设档 + 功能包"：profile 是一套面向某场景的默认配置，bundle 是一组打包在一起的插件，二者拼起来就搭出一个可用的 dsh）。读完能回答"dsh 是什么、凭什么可替换"。
+- **Part I 理念与使用**（Ch01–04）：先立"为什么这样"——项目定位、一切皆插件、Spatiotemporal Composability范式，以及 profile/bundle 组装（可以理解为"预设档 + 功能包"：profile 是一套面向某场景的默认配置，bundle 是一组打包在一起的插件，二者拼起来就搭出一个可用的 dsh）。读完能回答"dsh 是什么、凭什么可替换"。
 - **Part II 源码剖析**（Ch05–18）：主体。沿"回合流→会话→提示词→工具→模型→能力接缝→各能力域→远程/互操作/自我修改"这条从里到外的线索逐层深入，每章七维分析 + 承重判断 ratify-note + ≥4 图。
 - **Part III 对比与元**（Ch19–20）：跳出源码，从更高处看它——生态里的位置（竞品对比）与元层面（AI 自举开发方法论 + 公司理念映射）。
 

diff --git a/Part I Principles and Usage/01-定位与预览.md b/Part I Principles and Usage/01-定位与预览.md
@@ -43,7 +43,7 @@ flowchart TD
 
 想象一个现实场景：你去年基于某模型搭了一套 agent，今年模型换代、工具升级、UI 改版、协议演进，结果发现动一处就得改一片。这正是官方 harness 要回答的痛点——模型每几个月就换一代，工具、沙箱、UI、协议也在快速演化，**如何让框架的任何一层都能被替换、而不必推倒重来**。官方口径把这一点表述为"模型是 agent 的灵魂，一切皆可替换插件"`[claimed]`（deepseek.com/harness，见《全网调研》A 节）。
 
-`dsh` 给出的答案是把"可替换性"做成一等公民（即最优先保证的属性）：不是像多数框架那样"预留几个扩展钩子"，而是**连内核都不存在**——loop、模型、日志全都是可以从 `cordis.yml` 配置里替换的一行。第 03 章会展开这套可替换性背后的时空可组合性范式，本章只需记住定位：它是一个**以可组合性为卖点**的 harness，而不是一个绑死某个模型的固定客户端。
+`dsh` 给出的答案是把"可替换性"做成一等公民（即最优先保证的属性）：不是像多数框架那样"预留几个扩展钩子"，而是**连内核都不存在**——loop、模型、日志全都是可以从 `cordis.yml` 配置里替换的一行。第 03 章会展开这套可替换性背后的Spatiotemporal Composability范式，本章只需记住定位：它是一个**以可组合性为卖点**的 harness，而不是一个绑死某个模型的固定客户端。
 
 ## 三、解决思路：profile / bundle / patch 三层组装 + 预览姿态
 
@@ -125,7 +125,7 @@ flowchart TB
   end
   DSH["DeepSeek Harness dsh"]
   DSH -->|自我定位差异点| K1["一切皆插件<br/>连 loop/模型/日志都可替换"]
-  DSH --> K2["Cordis 时空可组合性范式<br/>有论文支撑"]
+  DSH --> K2["Cordis Spatiotemporal Composability范式<br/>有论文支撑"]
   DSH --> K3["严格工具 JSON schema<br/>社区点赞 claimed"]
   Peers -.同赛道:terminal/web harness.-> DSH
 ```
@@ -174,7 +174,7 @@ flowchart LR
 
 ## 小结与衔接
 
-一句话收束本章：`dsh` 是 DeepSeek 官方的、以"一切皆插件"为核心信念、由 vendored Cordis 驱动、MIT 许可、当前 `0.1.0-rc.5` 的开发者预览版 agent harness；三种运行形态（web/headless/acp）共用同一套 profile→bundle→patch 的组装分层；它主动以"foundation over blast radius"的姿态换取重构自由，并暂时用插件生态、而非外部 PR 来承接社区能量。要注意的是，这些都还只是**定位层**的判断——它凭什么真能"一切皆替换"，属于范式与机制问题，正是第 02 章《一切皆插件》与第 03 章《时空可组合性》要用源码来回答的。
+一句话收束本章：`dsh` 是 DeepSeek 官方的、以"一切皆插件"为核心信念、由 vendored Cordis 驱动、MIT 许可、当前 `0.1.0-rc.5` 的开发者预览版 agent harness；三种运行形态（web/headless/acp）共用同一套 profile→bundle→patch 的组装分层；它主动以"foundation over blast radius"的姿态换取重构自由，并暂时用插件生态、而非外部 PR 来承接社区能量。要注意的是，这些都还只是**定位层**的判断——它凭什么真能"一切皆替换"，属于范式与机制问题，正是第 02 章《一切皆插件》与第 03 章《Spatiotemporal Composability》要用源码来回答的。
 
 ## 源码索引
 

diff --git a/Part III Comparative Analysis/21-参考底座Cordis深度对比.md b/Part III Comparative Analysis/21-参考底座Cordis深度对比.md
@@ -73,7 +73,7 @@ stateDiagram-v2
 
 **Loader 把 YAML 变成插件树,HMR 让它热更。** Loader 读一份 `cordis.yml`,声明式地把每一行(entry)挂成一个插件;HMR 监听源码与配置文件变化,改动时只重载受影响的子树,不重启进程。这两件事本身也是插件(`@cordisjs/plugin-loader`、`@cordisjs/plugin-hmr`),同样 vendored 在仓库里。
 
-> **↔ 论文对应**：本节的 `fiber`、`ctx.effect`、epoch 依赖追踪，在《时空可组合性》论文的实现章（§5）里逐字段对应理论构造——**Table 2**（理论↔实现对应）给出映射：一等 context $\Gamma_\infty$→`ctx`、$\mathrm{effect}_\Gamma$→`ctx.effect`、coeffect context $\Sigma/\Sigma^{iso}/\Sigma^{inter}$→`ctx[@@store]`/`[@@isolate]`/`[@@intercept]`（见 [Part IV 论文全解](../Part%20IV%20Foundational%20Paper/22-时空可组合性论文全解.md) §5，Table 2；逐条 dsh 映射另见 [Part IV 论文与 dsh 映射](../Part%20IV%20Foundational%20Paper/23-论文与dsh映射.md)）。epoch 则是论文 §4 依赖满足性谓词 $\gamma\vDash d_n$ 的工程落地 `[verified]`。
+> **↔ 论文对应**：本节的 `fiber`、`ctx.effect`、epoch 依赖追踪，在《Spatiotemporal Composability》论文的实现章（§5）里逐字段对应理论构造——**Table 2**（理论↔实现对应）给出映射：一等 context $\Gamma_\infty$→`ctx`、$\mathrm{effect}_\Gamma$→`ctx.effect`、coeffect context $\Sigma/\Sigma^{iso}/\Sigma^{inter}$→`ctx[@@store]`/`[@@isolate]`/`[@@intercept]`（见 [Part IV 论文全解](../Part%20IV%20Foundational%20Paper/22-A-Programming-Paradigm-for-Spatiotemporal-Composability.md) §5，Table 2；逐条 dsh 映射另见 [Part IV 论文与 dsh 映射](../Part%20IV%20Foundational%20Paper/23-论文与dsh映射.md)）。epoch 则是论文 §4 依赖满足性谓词 $\gamma\vDash d_n$ 的工程落地 `[verified]`。
 
 ## 三、`dsh` 如何采用 Cordis
 
@@ -121,7 +121,7 @@ flowchart LR
 
 | 维度 | Cordis(通用微内核底座) | DeepSeek Harness(agent harness 产品) |
 |---|---|---|
-| 定位 | 与领域无关的插件框架,"时空可组合性"元框架 `[verified]`(官方 README) | 专为编码/工具型 agent 打造的运行外壳,"一切皆插件"落到 agent 域 `[verified]`(`CLAUDE.md`) |
+| 定位 | 与领域无关的插件框架,"Spatiotemporal Composability"元框架 `[verified]`(官方 README) | 专为编码/工具型 agent 打造的运行外壳,"一切皆插件"落到 agent 域 `[verified]`(`CLAUDE.md`) |
 | 内核抽象 | `Context`/`Service`/`Plugin`/`fiber`/`effect` 五件套 `[verified]`(`cordis-primer.md:9-13`) | 完全沿用,不改内核抽象,只在其上定义**能力接缝**(Service Definition/Provider/Consumer 三角)`[verified]`(`CLAUDE.md`) |
 | 扩展点 | 任意服务 + 四种事件派发模式,领域中立 `[verified]`(`cordis-primer.md:19-24`) | 收窄为 agent 专用服务:`ctx.tools`/`ctx.llm`/`ctx.sessions`/`ctx.agents` 等 `[verified]`(`cordis-primer.md:10,42`) |
 | 生命周期/回滚 | fiber 六态机 + effect/disposer 成组回收 `[verified]`(`fiber.ts:147-153,675-676`) | 硬化重入卸载缝隙,并把 Loader/Include 配置改动做成**事务化对账**(失败整体回滚)`[verified]`(`vendor/README.md:38,40`) |

diff --git a/Part V Cordis Deep Dive/24-Cordis总览与血缘.md b/Part V Cordis Deep Dive/24-Cordis总览与血缘.md
@@ -6,7 +6,7 @@
 
 ## 一、Cordis 是什么
 
-Cordis 的自我定义写在 README 第一行：**"A Meta-Framework of Spatiotemporal Composability"**（一个时空可组合性的元框架）`[verified]`（`repo/cordis/README.md:5`）。而 `packages/core` 的包描述用了更朴素的说法——"Meta-Framework for Modern Applications"`[verified]`（`repo/cordis/packages/core/package.json:3`）。
+Cordis 的自我定义写在 README 第一行：**"A Meta-Framework of Spatiotemporal Composability"**（一个Spatiotemporal Composability的元框架）`[verified]`（`repo/cordis/README.md:5`）。而 `packages/core` 的包描述用了更朴素的说法——"Meta-Framework for Modern Applications"`[verified]`（`repo/cordis/packages/core/package.json:3`）。
 
 "元框架（meta-framework）"这个词值得拆开讲：它自己不直接实现业务功能，而是提供一套"如何把功能拼装起来"的规则。打个比方，它不是灯泡，而是**插座标准**——规定了灯泡怎么插、怎么拔、拔了以后电路怎么恢复，至于插进来的是台灯还是电扇，它不关心。这套"插拔标准"在 Cordis 里由几个核心概念承担，读源码会反复撞见它们：
 
@@ -16,7 +16,7 @@ Cordis 的自我定义写在 README 第一行：**"A Meta-Framework of Spatiotem
 - **effect / disposer**：插件运行时产生的"副作用"（注册监听、占用资源）都通过 `ctx.effect(...)` 登记，返回一个可回收的 disposer；卸载时统一回滚。`Context.effect` 是一个 `unique symbol`（`context.ts:22`，`[verified]`），fiber 里 `effect` 的实现集中在 `fiber.ts:225-242` 一带（`[verified]`）。
 - **loader / HMR**：把"从配置文件加载插件""热替换（Hot Module Replacement，改代码不重启）"这类能力，做成了独立的插件包 `@cordisjs/plugin-loader`、`@cordisjs/plugin-hmr`（`[verified]`，见下文包清单）。
 
-这些名词现在只需混个脸熟。要记住的一句话是：**Cordis 用一套"可组合、可回收"的插件模型，把一个应用拆成许多能独立装卸的单元**，而"时空可组合性"里的"时"，指的正是插件在时间维度上的动态装卸（对应 fiber 的生命周期），"空"则是 Context 在作用域维度上的隔离与派生。
+这些名词现在只需混个脸熟。要记住的一句话是：**Cordis 用一套"可组合、可回收"的插件模型，把一个应用拆成许多能独立装卸的单元**，而"Spatiotemporal Composability"里的"时"，指的正是插件在时间维度上的动态装卸（对应 fiber 的生命周期），"空"则是 Context 在作用域维度上的隔离与派生。
 
 <div style="background: #ffffff !important; background-color: #ffffff !important; padding: 16px; border-radius: 8px; margin: 16px 0;" bgcolor="#ffffff">
 
